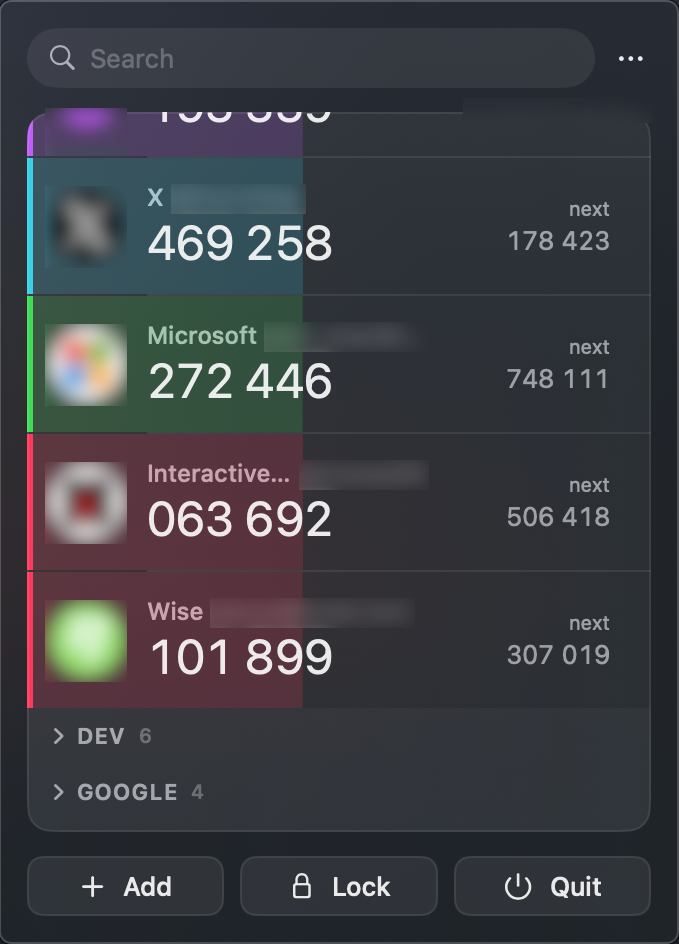
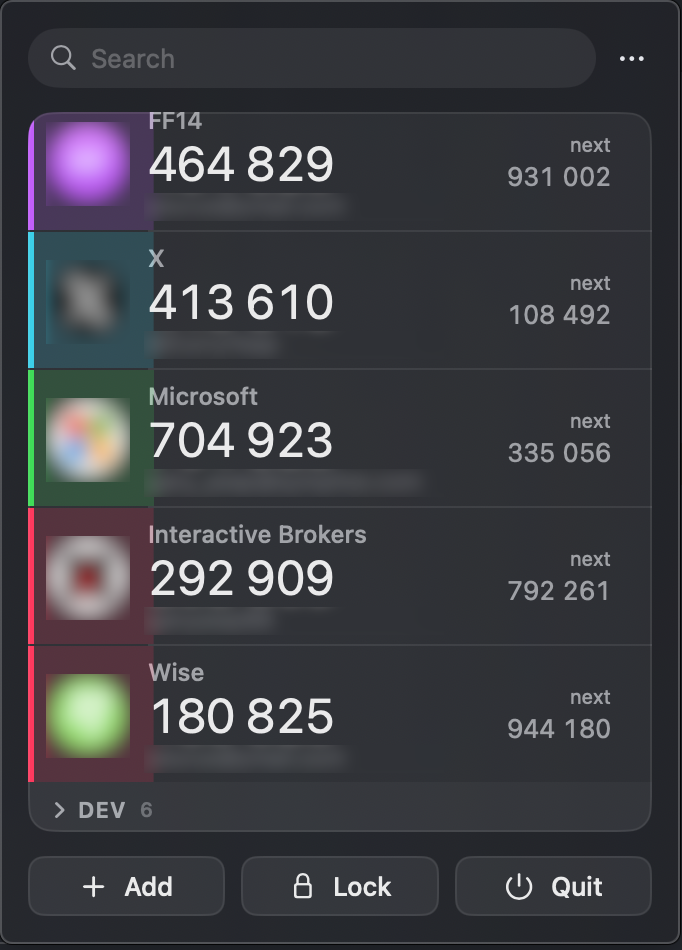
feat(panel): show the account under the code
The account no longer shares the name's line, so long names aren't cut off. Updated the README screenshot.

diff --git a/Sources/TrayOTP/Views/TokenRow.swift b/Sources/TrayOTP/Views/TokenRow.swift
@@ -15,18 +15,12 @@ struct TokenRow: View {
             ServiceAvatar(name: token.name, color: color,
                           image: token.icon.flatMap(IconImage.image(for:)) ?? state.icons.image(for: token))
 
-            VStack(alignment: .leading, spacing: 1) {
-                HStack(spacing: 4) {
-                    Text(token.name)
-                        .font(.system(size: 12, weight: .medium))
-                    if let subtitle = token.subtitle {
-                        Text(subtitle)
-                            .font(.system(size: 11))
-                            .foregroundStyle(.tertiary)
-                    }
-                }
-                .lineLimit(1)
-                .foregroundStyle(.secondary)
+            VStack(alignment: .leading, spacing: 0) {
+                // Name, code, then account on its own line, so a long account doesn't cut off the name.
+                Text(token.name)
+                    .font(.system(size: 12, weight: .medium))
+                    .lineLimit(1)
+                    .foregroundStyle(.secondary)
 
                 // Only the code and the ring tick. Ticking the whole row would rebuild its
                 // context menu every second and close open submenus.
@@ -34,6 +28,13 @@ struct TokenRow: View {
                     Text(token.code(at: context.date)?.otpGrouped ?? "Invalid secret")
                         .font(.system(size: 24, weight: .regular).monospacedDigit())
                                                 .contentTransition(.numericText())
+                }
+                if let subtitle = token.subtitle {
+                    Text(subtitle)
+                        .font(.system(size: 11))
+                        .lineLimit(1)
+                        .truncationMode(.middle)
+                        .foregroundStyle(.tertiary)
                 }
             }
 
